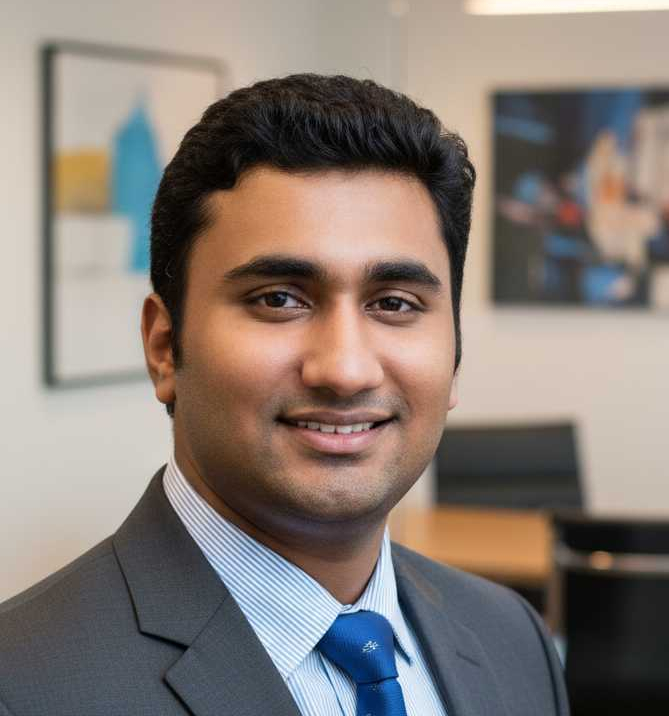
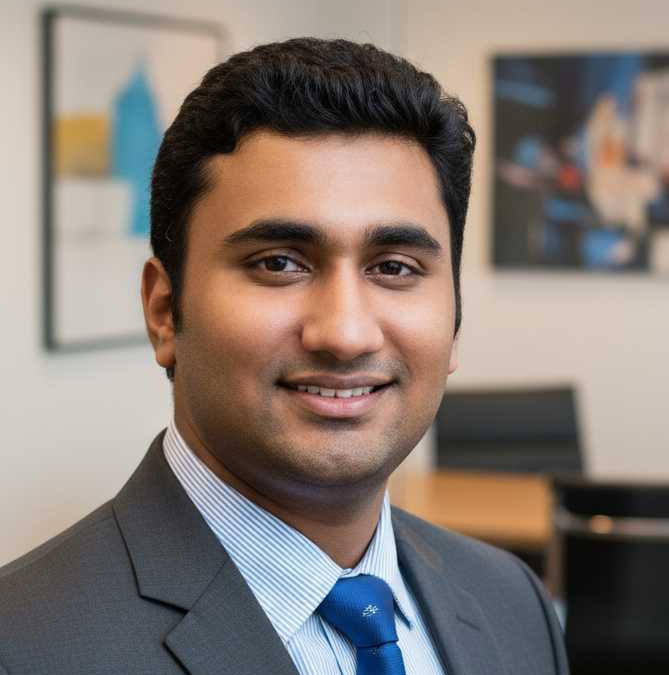
Added : Images

diff --git a/index.html b/index.html
@@ -249,7 +249,7 @@
             <div class="col-xl-4 col-md-6 d-flex" data-aos="zoom-in" data-aos-delay="200">
               <div class="team-member">
                 <div class="member-img">
-                  <img src="assets/img/team/team-2.jpg" class="img-fluid" alt="">
+                  <img src="assets/img/team/deeksha.png" class="img-fluid" alt="">
                 </div>
                 <div class="member-info">
                   <div class="social">
@@ -285,7 +285,115 @@
             <div class="col-xl-4 col-md-6 d-flex" data-aos="zoom-in" data-aos-delay="600">
               <div class="team-member">
                 <div class="member-img">
-                  <img src="assets/img/team/sajeer.jpg" class="img-fluid" alt="">
+                  <img src="assets/img/team/sajeer.png" class="img-fluid" alt="">
+                </div>
+                <div class="member-info">
+                  <div class="social">
+                    <a href=""><i class="bi bi-twitter-x"></i></a>
+                    <a href=""><i class="bi bi-facebook"></i></a>
+                    <a href=""><i class="bi bi-instagram"></i></a>
+                    <a href=""><i class="bi bi-linkedin"></i></a>
+                  </div>
+                  <h4>Sajeer Bin Saleem</h4>
+                  <span>CTO</span>
+                </div>
+              </div>
+            </div><!-- End Team Member -->
+
+            <div class="col-xl-4 col-md-6 d-flex" data-aos="zoom-in" data-aos-delay="600">
+              <div class="team-member">
+                <div class="member-img">
+                  <img src="assets/img/team/sajeer.png" class="img-fluid" alt="">
+                </div>
+                <div class="member-info">
+                  <div class="social">
+                    <a href=""><i class="bi bi-twitter-x"></i></a>
+                    <a href=""><i class="bi bi-facebook"></i></a>
+                    <a href=""><i class="bi bi-instagram"></i></a>
+                    <a href=""><i class="bi bi-linkedin"></i></a>
+                  </div>
+                  <h4>Sajeer Bin Saleem</h4>
+                  <span>CTO</span>
+                </div>
+              </div>
+            </div><!-- End Team Member -->
+
+            <div class="col-xl-4 col-md-6 d-flex" data-aos="zoom-in" data-aos-delay="600">
+              <div class="team-member">
+                <div class="member-img">
+                  <img src="assets/img/team/sajeer.png" class="img-fluid" alt="">
+                </div>
+                <div class="member-info">
+                  <div class="social">
+                    <a href=""><i class="bi bi-twitter-x"></i></a>
+                    <a href=""><i class="bi bi-facebook"></i></a>
+                    <a href=""><i class="bi bi-instagram"></i></a>
+                    <a href=""><i class="bi bi-linkedin"></i></a>
+                  </div>
+                  <h4>Sajeer Bin Saleem</h4>
+                  <span>CTO</span>
+                </div>
+              </div>
+            </div><!-- End Team Member -->
+
+            <div class="col-xl-4 col-md-6 d-flex" data-aos="zoom-in" data-aos-delay="600">
+              <div class="team-member">
+                <div class="member-img">
+                  <img src="assets/img/team/sajeer.png" class="img-fluid" alt="">
+                </div>
+                <div class="member-info">
+                  <div class="social">
+                    <a href=""><i class="bi bi-twitter-x"></i></a>
+                    <a href=""><i class="bi bi-facebook"></i></a>
+                    <a href=""><i class="bi bi-instagram"></i></a>
+                    <a href=""><i class="bi bi-linkedin"></i></a>
+                  </div>
+                  <h4>Sajeer Bin Saleem</h4>
+                  <span>CTO</span>
+                </div>
+              </div>
+            </div><!-- End Team Member -->
+
+            <div class="col-xl-4 col-md-6 d-flex" data-aos="zoom-in" data-aos-delay="600">
+              <div class="team-member">
+                <div class="member-img">
+                  <img src="assets/img/team/sajeer.png" class="img-fluid" alt="">
+                </div>
+                <div class="member-info">
+                  <div class="social">
+                    <a href=""><i class="bi bi-twitter-x"></i></a>
+                    <a href=""><i class="bi bi-facebook"></i></a>
+                    <a href=""><i class="bi bi-instagram"></i></a>
+                    <a href=""><i class="bi bi-linkedin"></i></a>
+                  </div>
+                  <h4>Sajeer Bin Saleem</h4>
+                  <span>CTO</span>
+                </div>
+              </div>
+            </div><!-- End Team Member -->
+
+            <div class="col-xl-4 col-md-6 d-flex" data-aos="zoom-in" data-aos-delay="600">
+              <div class="team-member">
+                <div class="member-img">
+                  <img src="assets/img/team/sajeer.png" class="img-fluid" alt="">
+                </div>
+                <div class="member-info">
+                  <div class="social">
+                    <a href=""><i class="bi bi-twitter-x"></i></a>
+                    <a href=""><i class="bi bi-facebook"></i></a>
+                    <a href=""><i class="bi bi-instagram"></i></a>
+                    <a href=""><i class="bi bi-linkedin"></i></a>
+                  </div>
+                  <h4>Sajeer Bin Saleem</h4>
+                  <span>CTO</span>
+                </div>
+              </div>
+            </div><!-- End Team Member -->
+
+            <div class="col-xl-4 col-md-6 d-flex" data-aos="zoom-in" data-aos-delay="600">
+              <div class="team-member">
+                <div class="member-img">
+                  <img src="assets/img/team/sajeer.png" class="img-fluid" alt="">
                 </div>
                 <div class="member-info">
                   <div class="social">
